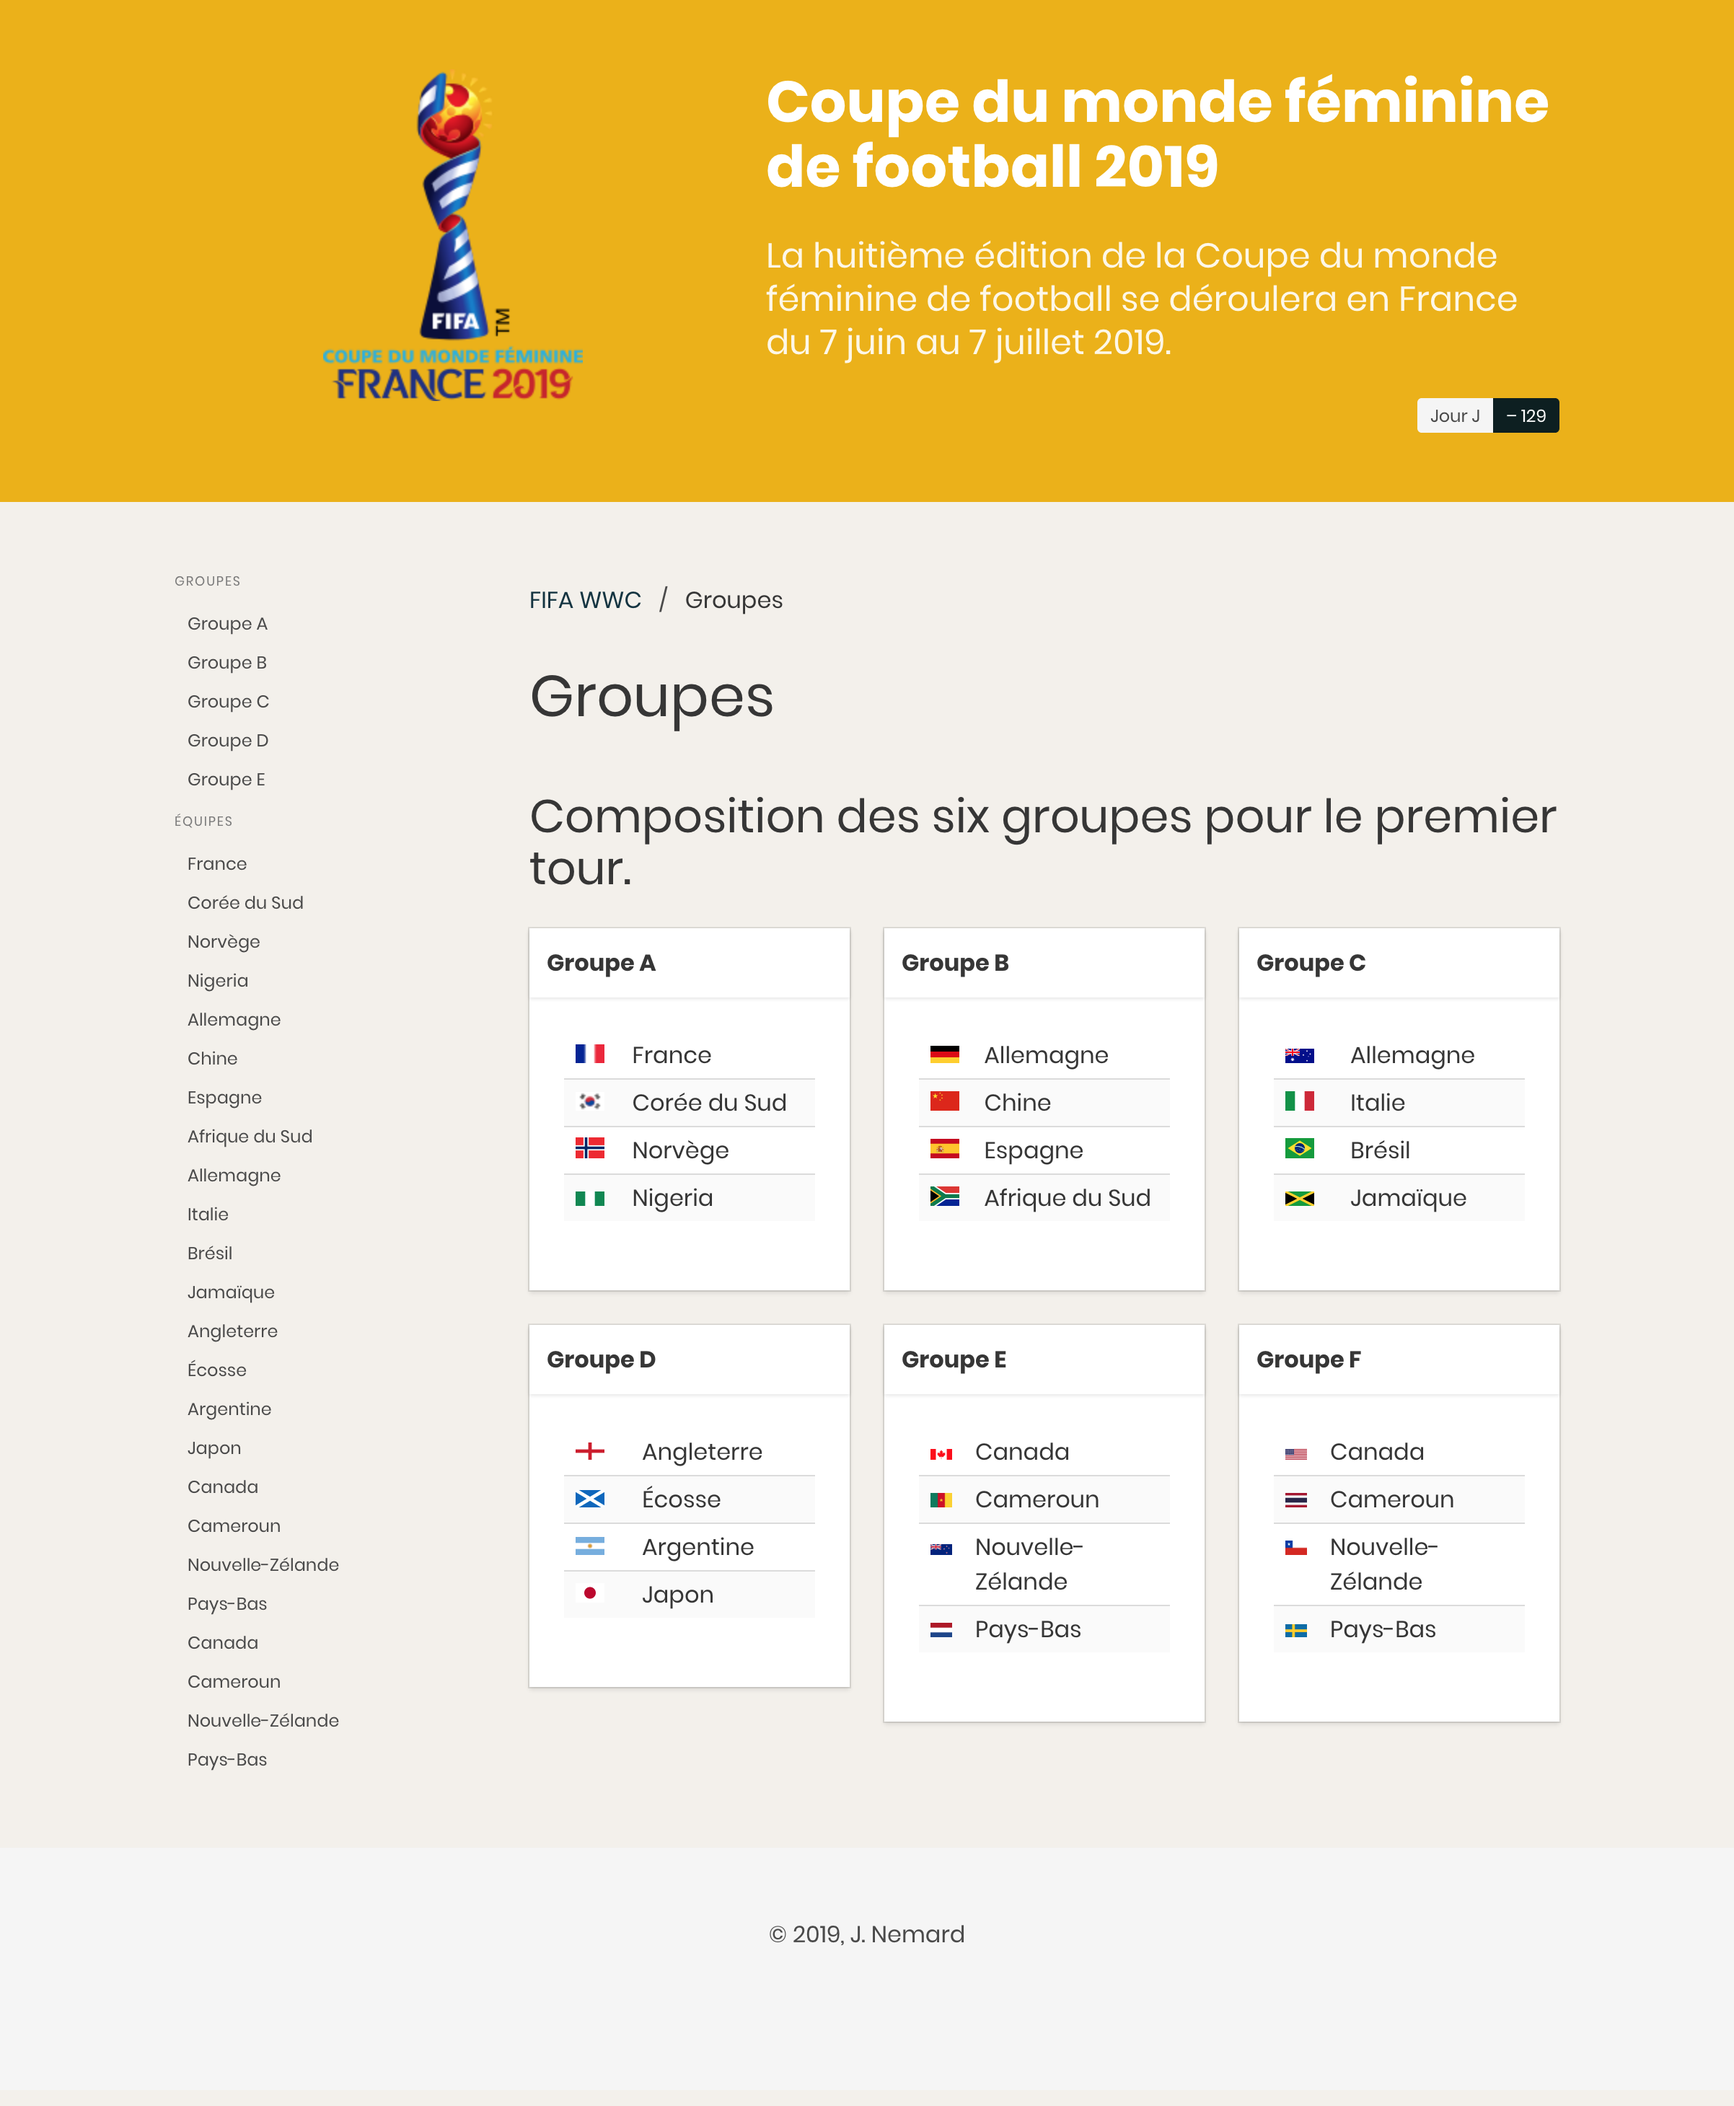
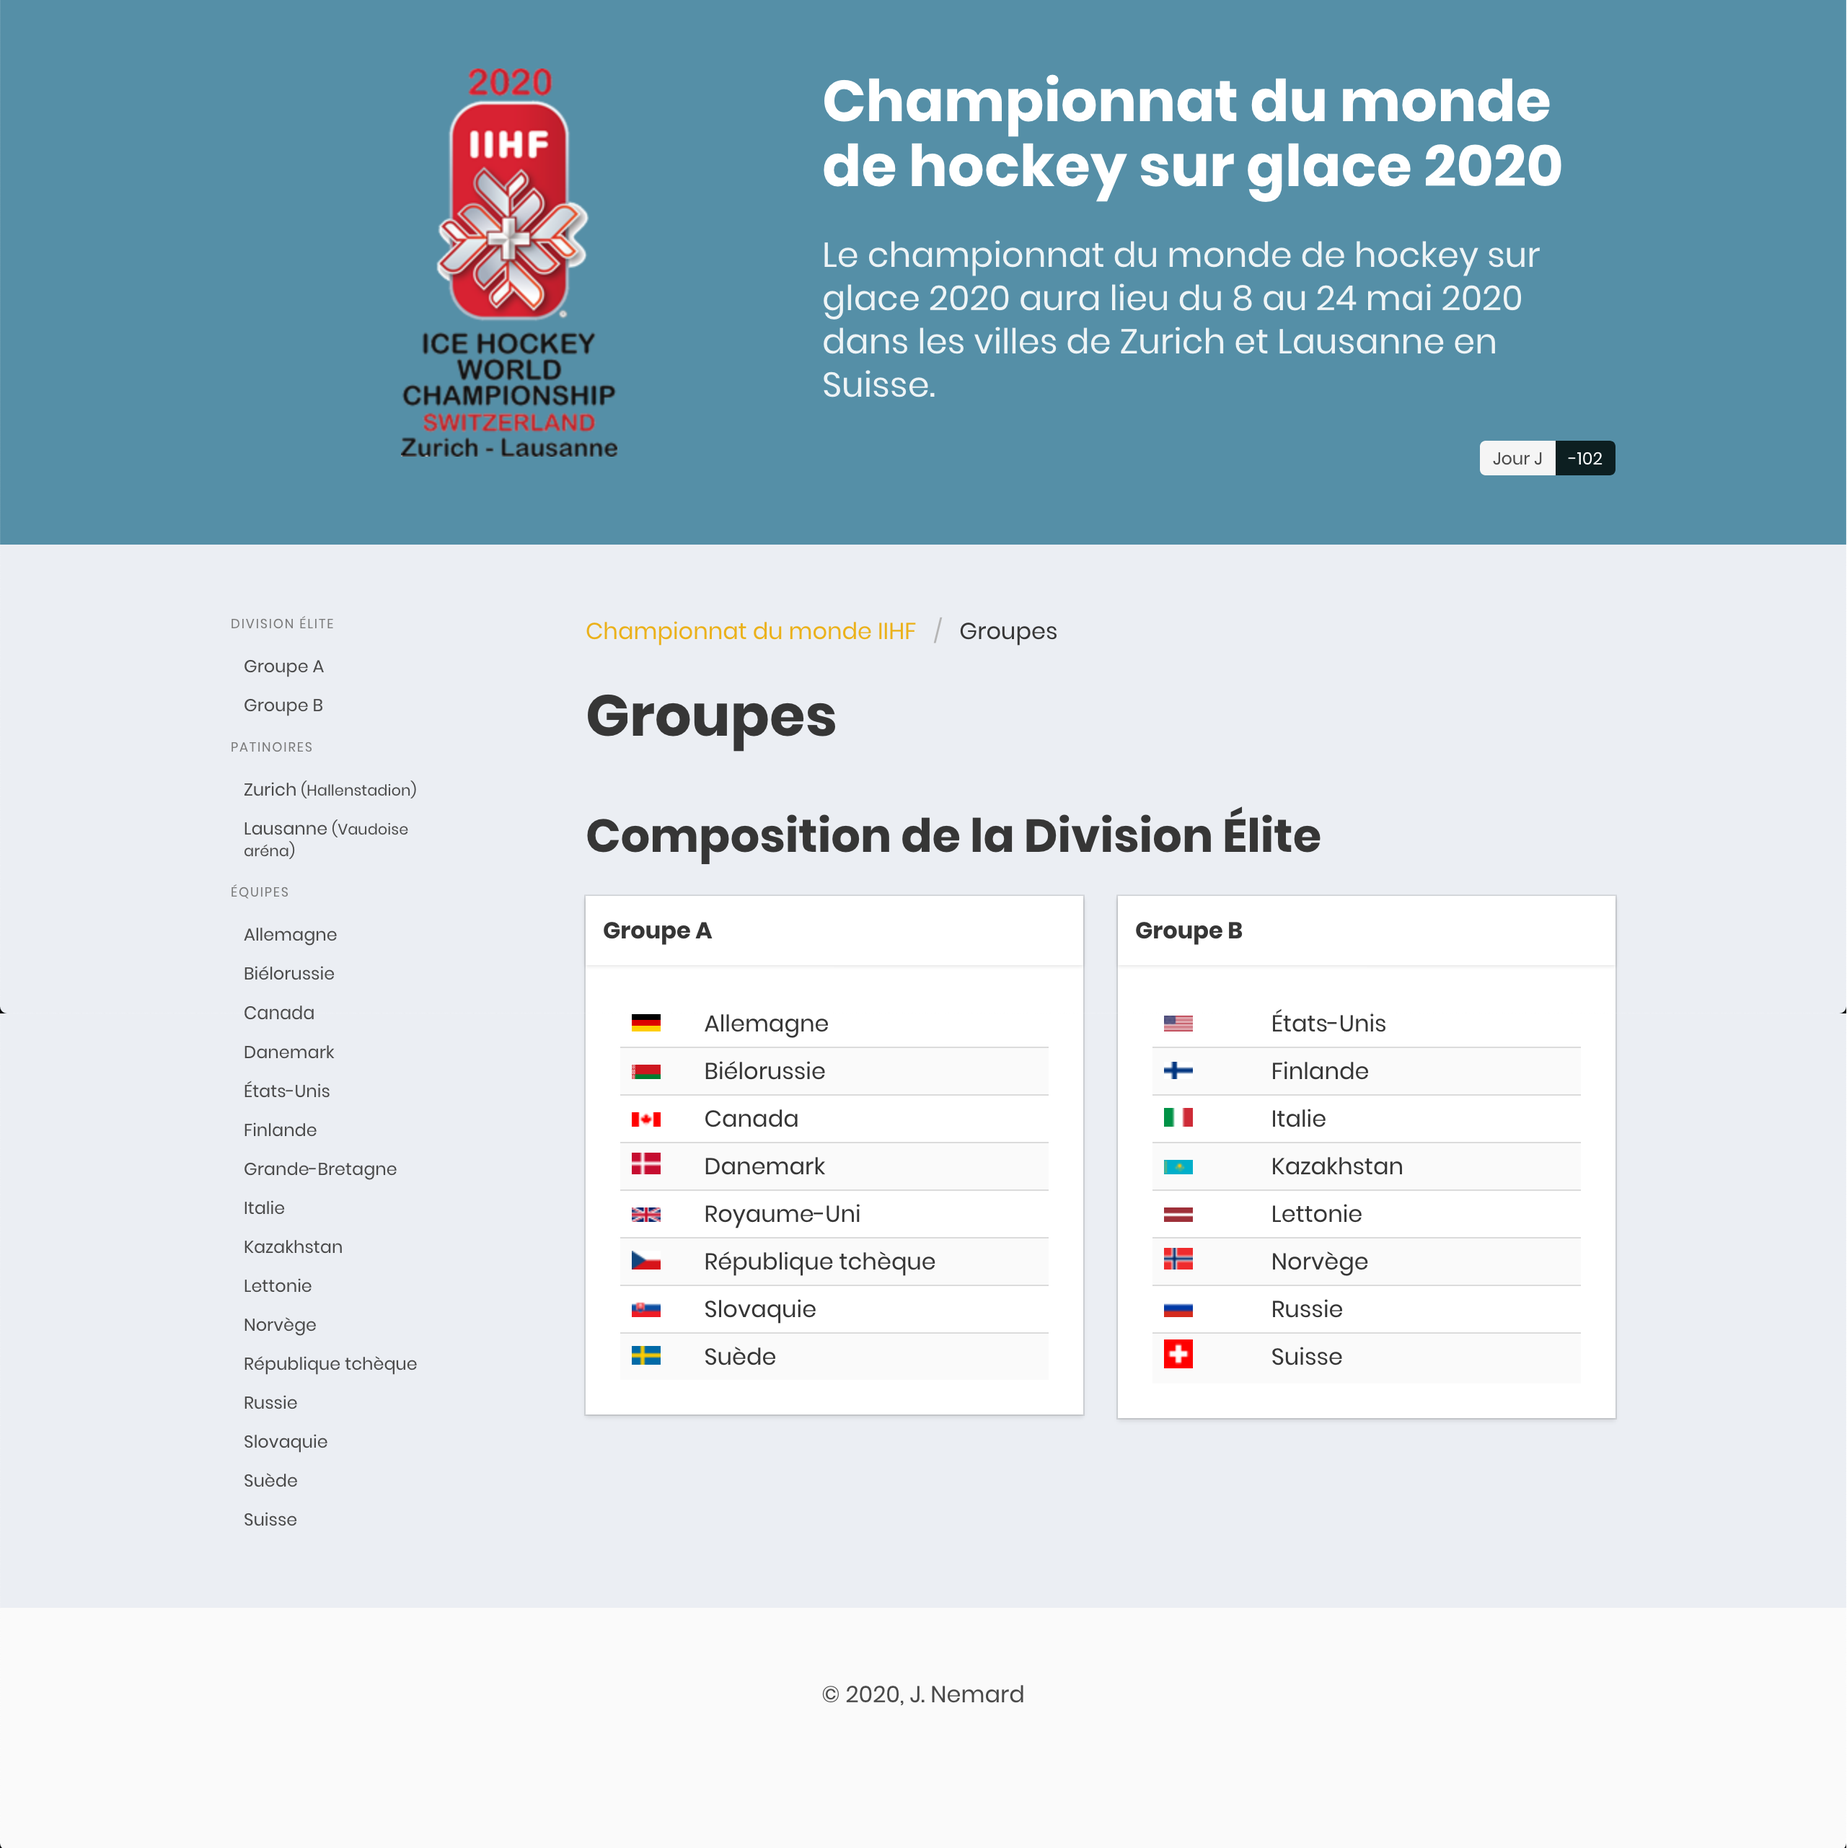
tp infoweb css

diff --git a/_posts/InfoWeb/2019-01-25-TP_Framework_CSS.md b/_posts/InfoWeb/2019-01-25-TP_Framework_CSS.md
@@ -5,6 +5,7 @@ categories:
 - InfoWeb
 - lab
 published: true
+update: 2020-01-26
 ---
 
 ## Les Frameworks CSS 
@@ -101,7 +102,7 @@ Se référer à la [documentation de bulma](https://bulma.io/documentation/) pou
 
 ## Travail à réaliser
 
-On se propose de créer un site Web en HTML et CSS statique (pas de PHP) qui permet de présenter les équipes et les poules de sélection de la coupe du monde feminine de football 2019. Le but est de réaliser plusieurs pages sur ce sujet en utilisant le Framework CSS Bulma. Ce site possède plusieurs pages ou ensemble de pages liées entre elles. Le design doit respecter celui proposé par Bulma. Un maximum de [composants](https://bulma.io/documentation/components/) et d'[éléments](https://bulma.io/documentation/elements/) graphiques doivent être utilisés. Les pages sont "*responsives*" et utilisent le système de [colonnes](https://bulma.io/documentation/columns/) du Bulma.
+On se propose de créer un site Web en HTML et CSS statique (pas de PHP) qui permet de présenter les équipes et les poules de sélection du championnat du monde de hockey sur glace 2020. Le but est de réaliser plusieurs pages sur ce sujet en utilisant le Framework CSS Bulma. Ce site possède plusieurs pages ou ensemble de pages liées entre elles. Le design doit respecter celui proposé par Bulma. Un maximum de [composants](https://bulma.io/documentation/components/) et d'[éléments](https://bulma.io/documentation/elements/) graphiques doivent être utilisés. Les pages sont "*responsives*" et utilisent le système de [colonnes](https://bulma.io/documentation/columns/) du Bulma.
 
 Toutes les pages ont la même base graphique avec une entête contenant un logo et un titre. Le logo devient centré et le tite passe sur la seconde ligne en mode étroit (mobile). Chaque page propose un menu latéral qui disparaît en mode étroit (mobile).
 
@@ -122,13 +123,13 @@ La page des groupes en mode étroit :
 Chaque groupe a sa propre page sous forme d'un onglet d'un composant `tab`. Dans chaque page figure à minima un tableau  des matchs avec le nom des équipes, la date et le lieux des matchs.
 
 Exemple d'une page du groupe, à minima, en mode étroit :  
-![Groupe A mode étroit]({{ site.baseurl }}/images/L3-INFOWEB-TPCSS-GroupeA-Etroit.png){:.image-width-50}
+![Groupe A mode étroit]({{ site.baseurl }}/images/L3-INFOWEB-TPCSS-GroupeA-Etroit.png){:.image-width-90}
 
-Pas la peine d'écrire *toutes* les pages de groupes. Une seule suffit.
+Pas la peine d'écrire *toutes* les pages de groupes. Une seule suffit. Pas la peine d'afficher *tous* les matchs d'un groupe. Une dizaine suffit.
 
 ### Les pages équipe
 
-A vous d'imaginer ce qu'une page équipe peut afficher en utilisant les elements et composants de Bulma. Vous pouvez vous inspirer de  Wikipedia (e.g. [Équipe de France féminine](https://fr.wikipedia.org/wiki/%C3%89quipe_de_France_f%C3%A9minine_de_football)) pour constater qu'une équipe possède une confédération, un emblème, des couleurs, un sélectionneur, un capitaine, un classement internationale, etc. Pas la peine d'écrire *toutes* les pages équipes. Une seule suffit.
+A vous d'imaginer ce qu'une page équipe peut afficher en utilisant les éléments et composants de Bulma. Vous pouvez vous inspirer de  Wikipedia (e.g. [Équipe du Canada de Hockey](https://en.wikipedia.org/wiki/Canada_men%27s_national_ice_hockey_team)) pour constater qu'une équipe possède un emblème, des couleurs, un sélectionneur, un capitaine, un classement internationale, etc. Pas la peine d'écrire *toutes* les pages équipes. Une seule suffit.
 
 ## Fin du TP
 
@@ -139,4 +140,4 @@ DOSSIER="L3_TP_InfoWeb_CSS"
 tar --exclude="${DOSSIER}/node_modules" -zcvf "${DOSSIER}.tar.gz" "${DOSSIER}"
 ```
 
-Déposer l'archive sur eureka.
+Déposer l'archive sur Eureka.

diff --git a/_posts/InfoWeb/2019-02-28-TP_Introduction_Symfony.md b/_posts/InfoWeb/2019-02-28-TP_Introduction_Symfony.md
@@ -5,7 +5,7 @@ categories:
 - InfoWeb
 - lab
 author: Yoann Pigné
-published: true
+published: false
 ---
 
 
